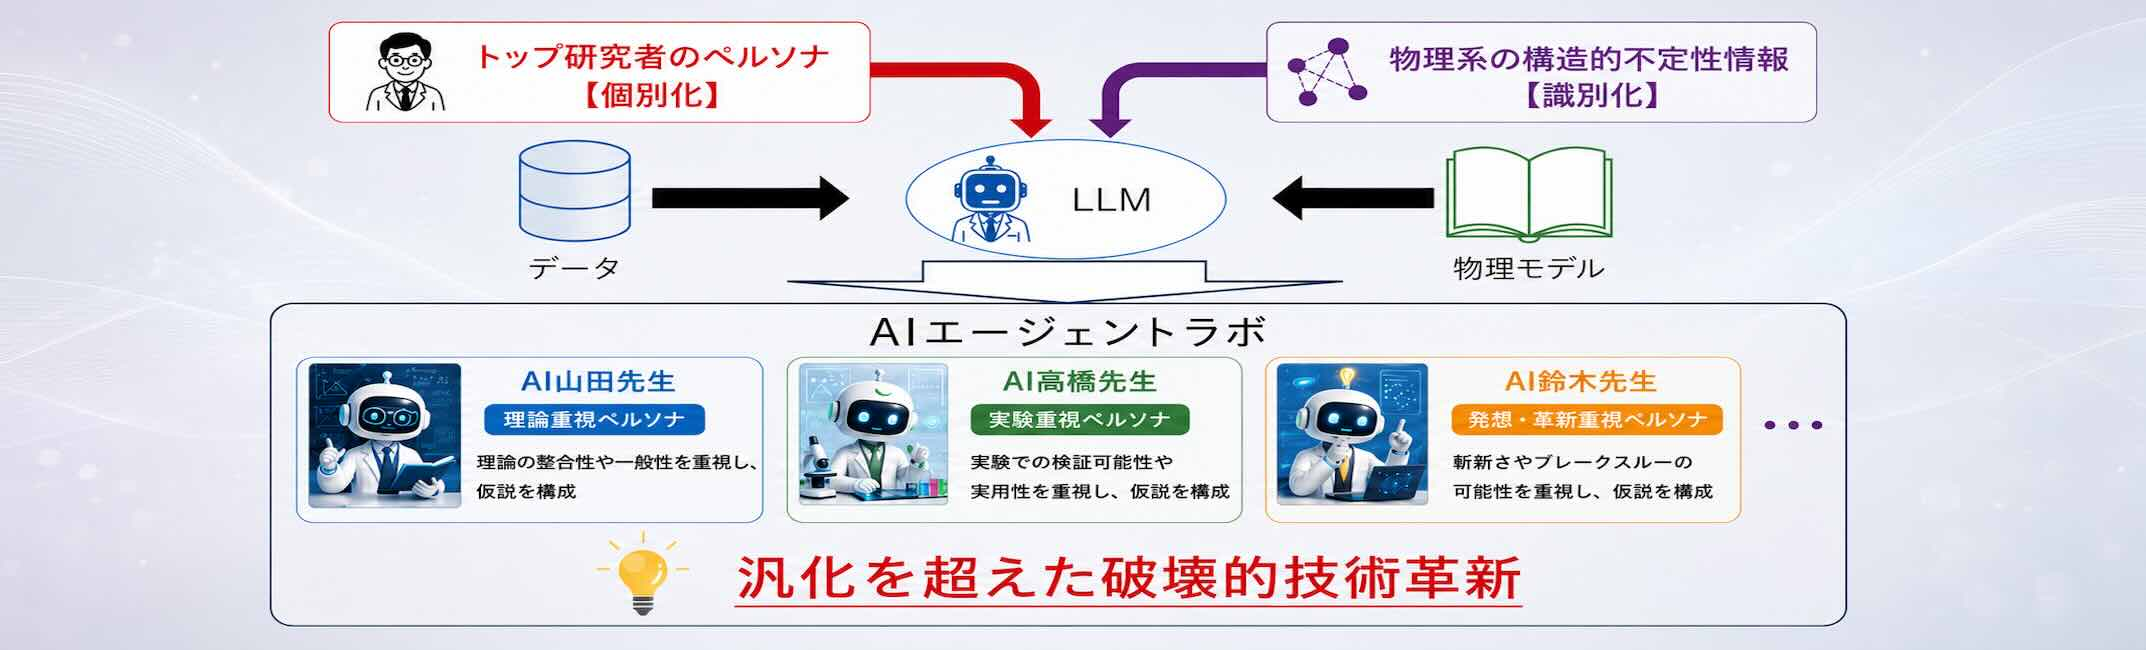
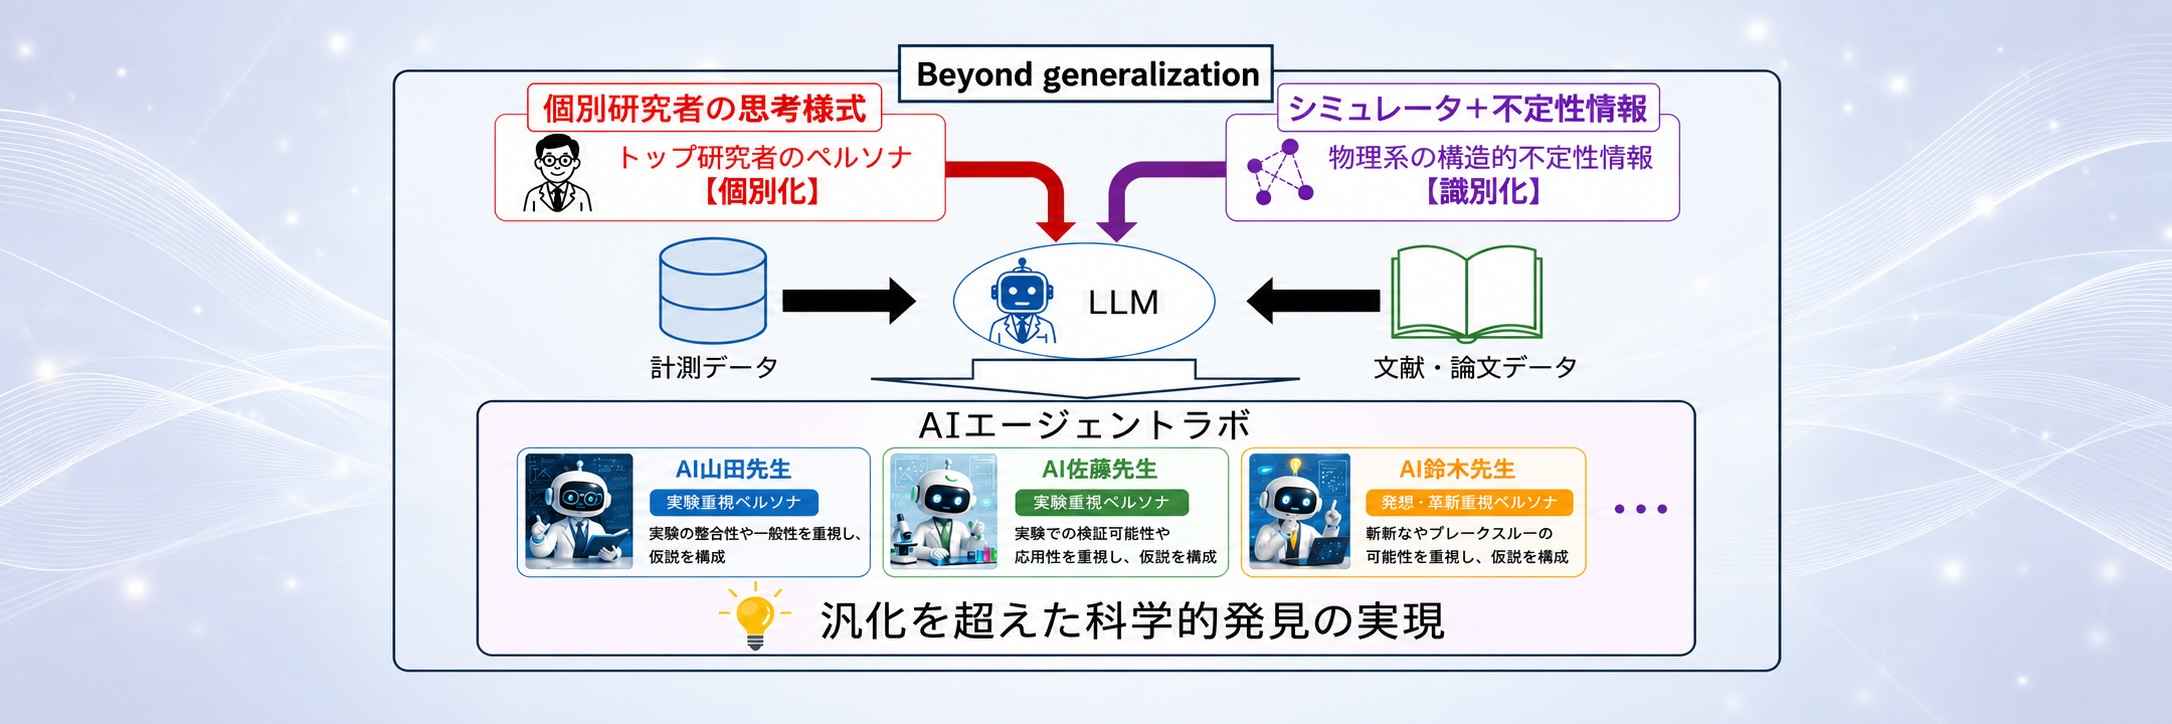
img

diff --git a/index.html b/index.html
@@ -55,7 +55,7 @@
         <h2>研究室で目指すもの</h2>
         <font size="5">「世界を全て理解する」ことを目標に<br>　ヒトとAIの協業による科学研究の革新を目指します</font><br>
         【最近の重点研究項目１】モデルの構造的不定性（structural uncertainty）評価<br>
-        【最近の重点研究項目２】LLMで熟練研究者の個人モデル構築<br><br>
+        【最近の重点研究項目２】LLMで熟練研究者の思考様式モデルを構築<br><br>
     </div>
     <div class="news">
 		<h2>新着情報</h2>
